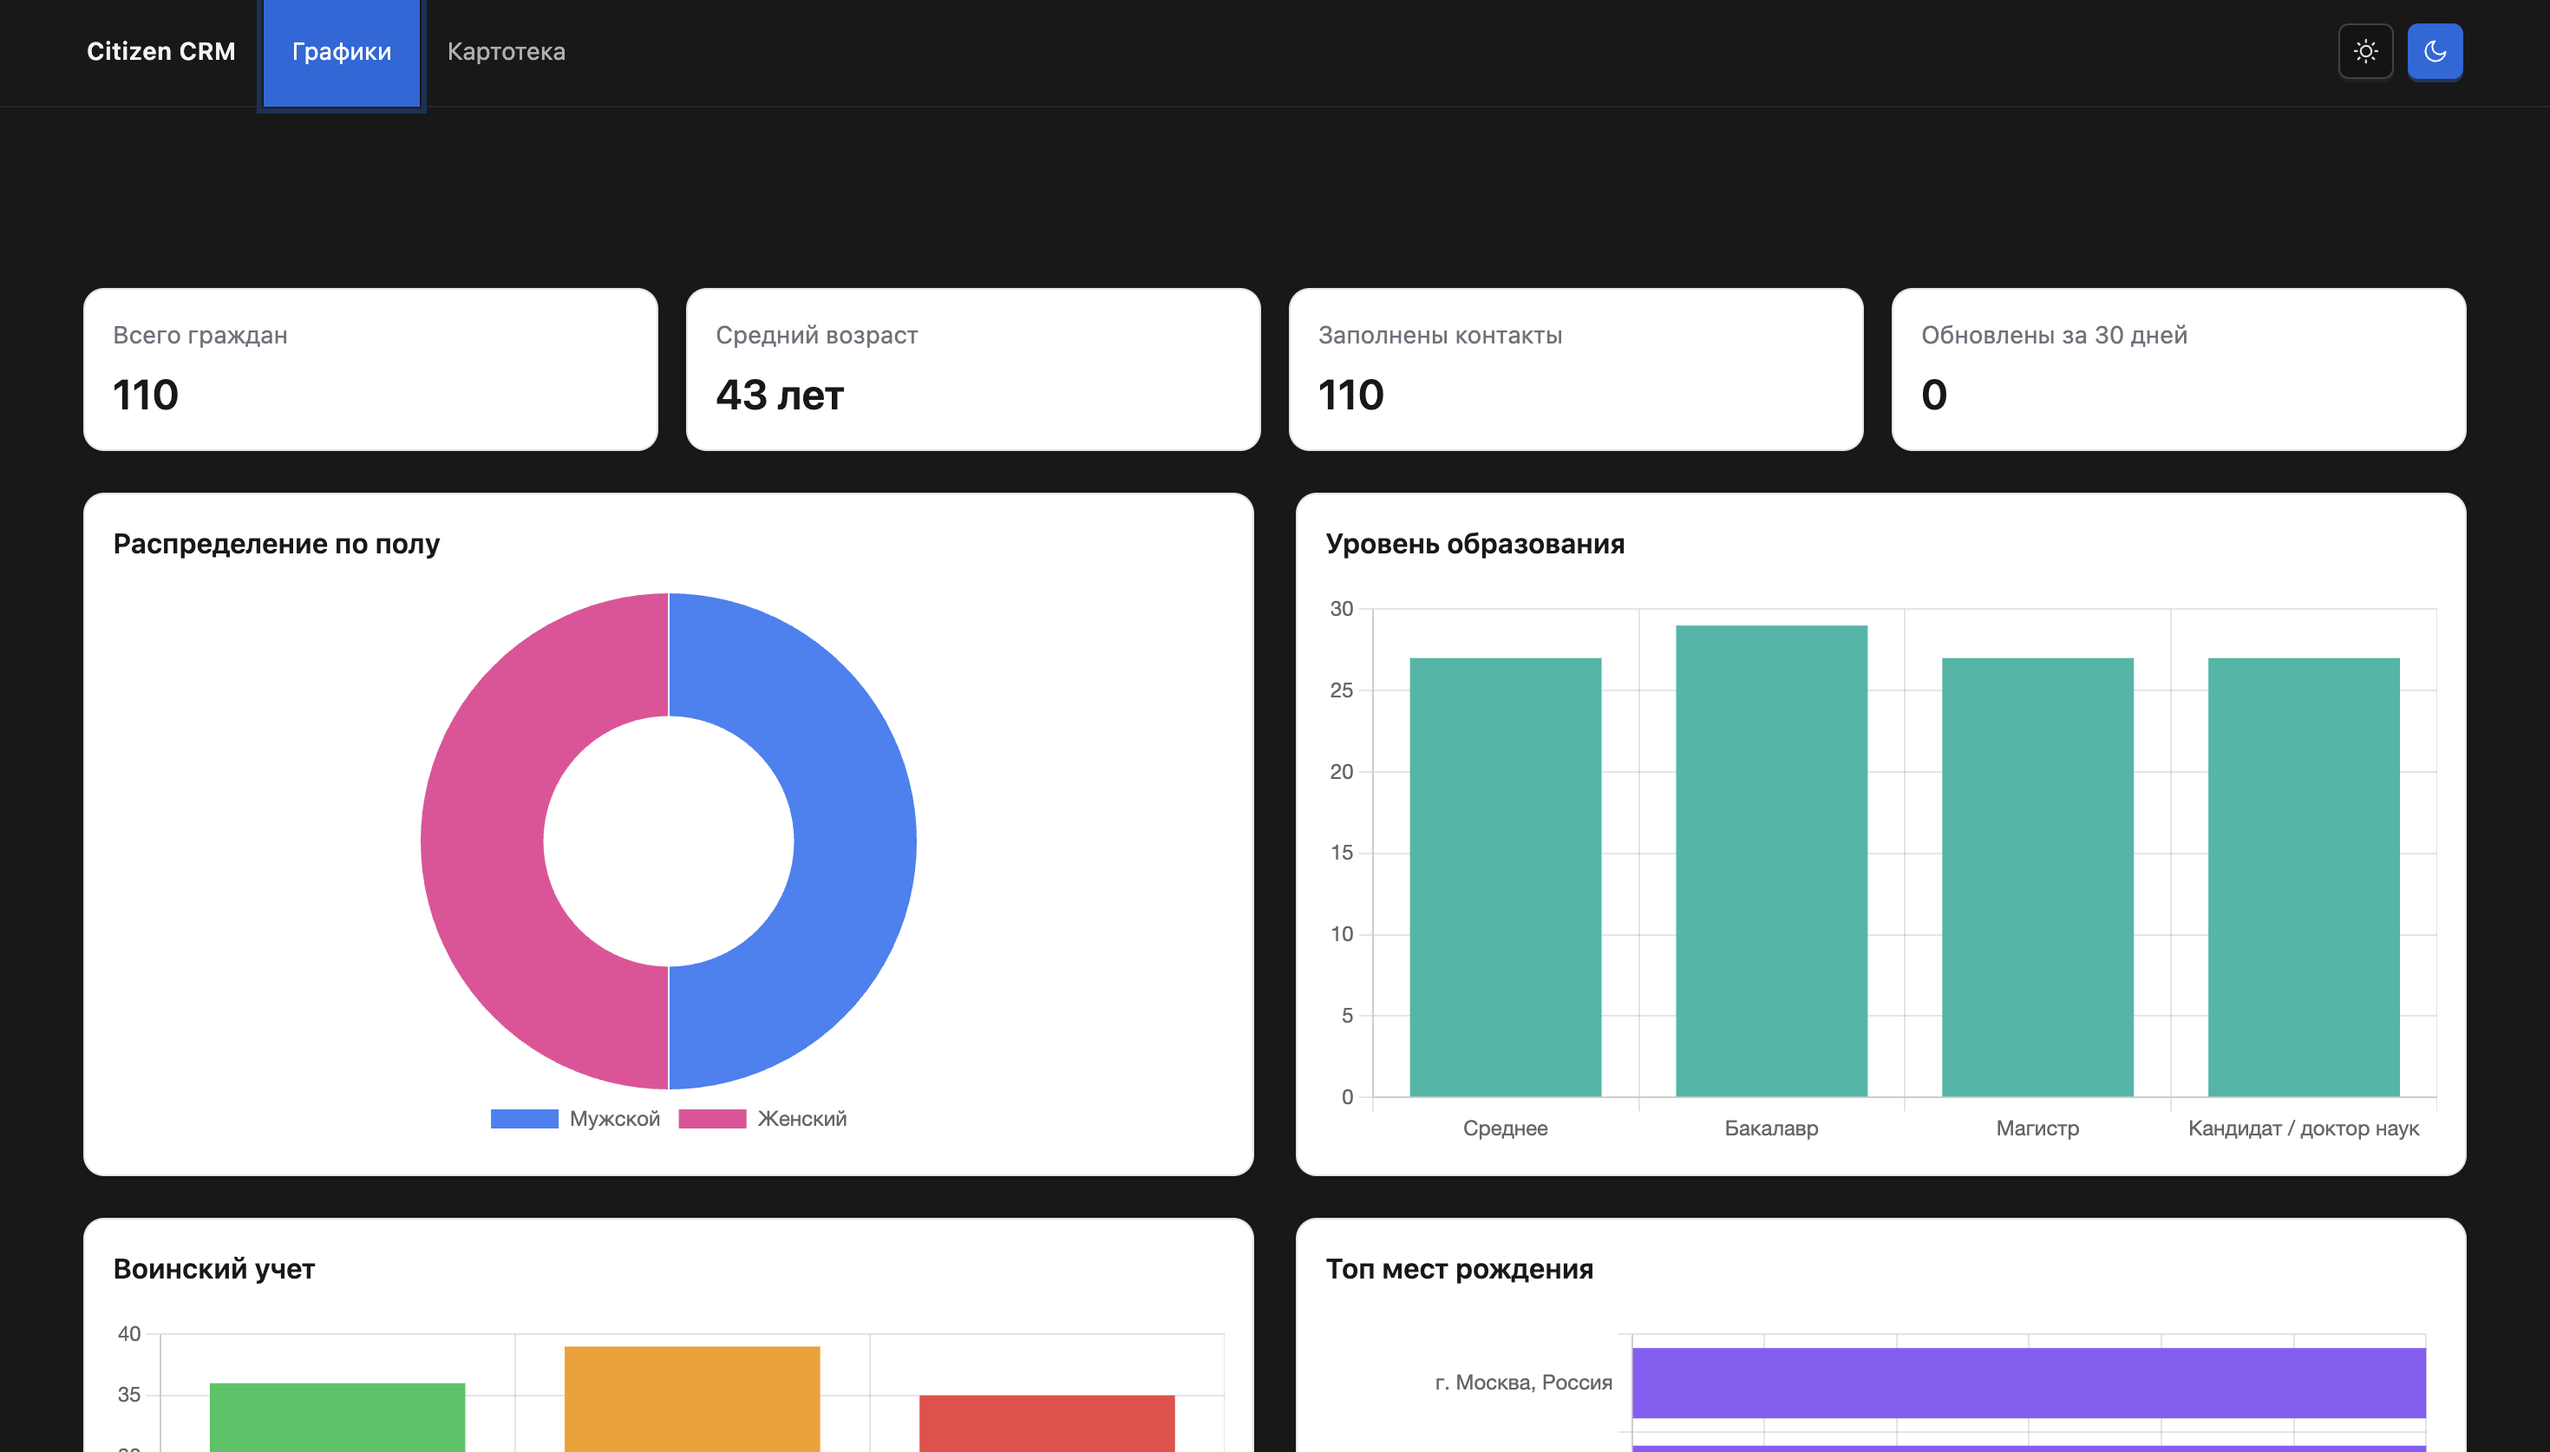
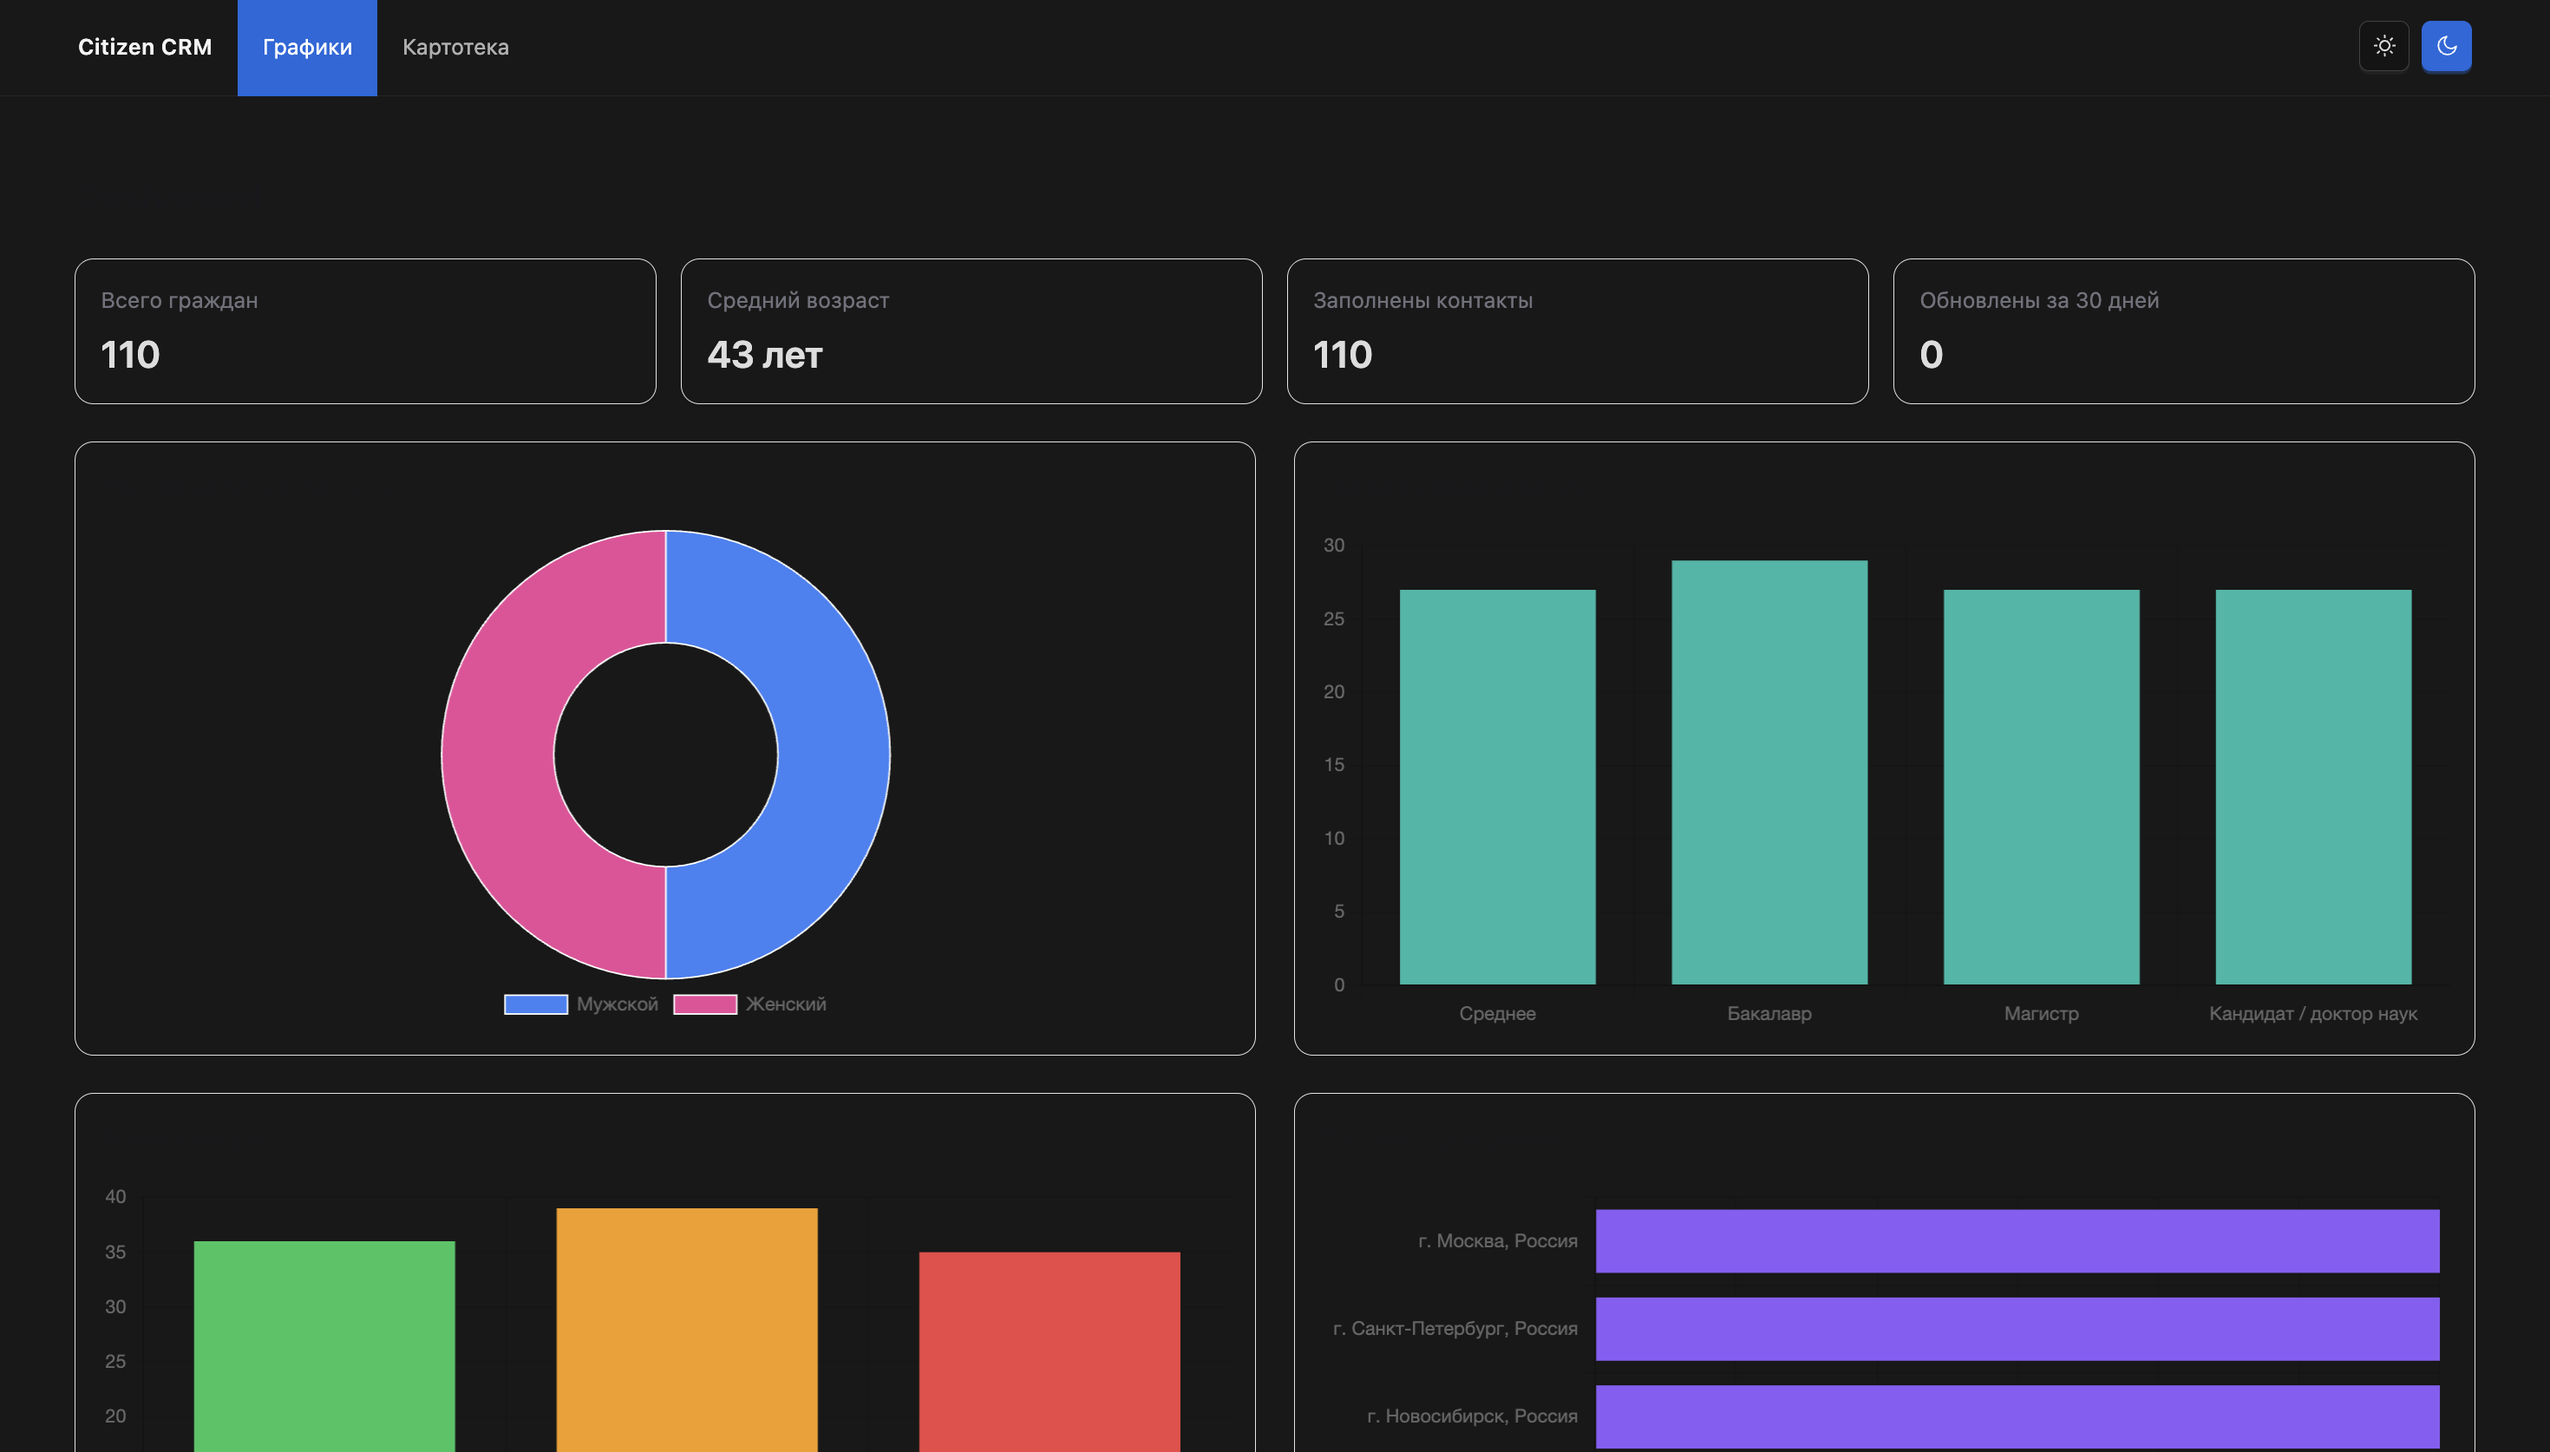
init

diff --git a/src/components/features/Dashboard/DashboardMetricCard.tsx b/src/components/features/Dashboard/DashboardMetricCard.tsx
@@ -5,9 +5,9 @@ type Props = {
 
 export function DashboardMetricCard({ label, value }: Props) {
   return (
-    <div className="rounded-xl border border-zinc-200 bg-white p-4 shadow-sm">
+    <div className="rounded-xl border border-zinc-200 p-4 shadow-sm">
       <div className="text-sm text-zinc-500">{label}</div>
-      <div className="mt-2 text-2xl font-semibold text-zinc-900">{value}</div>
+      <div className="mt-2 text-2xl font-semibold ">{value}</div>
     </div>
   )
 }

diff --git a/src/components/features/Dashboard/DashboardChartCard.tsx b/src/components/features/Dashboard/DashboardChartCard.tsx
@@ -7,7 +7,7 @@ type Props = {
 
 export function DashboardChartCard({ title, children }: Props) {
   return (
-    <section className="rounded-xl border border-zinc-200 bg-white p-4 shadow-sm">
+    <section className="rounded-xl border border-zinc-200 p-4 shadow-sm">
       <h2 className="mb-4 text-base font-semibold text-zinc-900">{title}</h2>
       <div className="h-80">{children}</div>
     </section>
